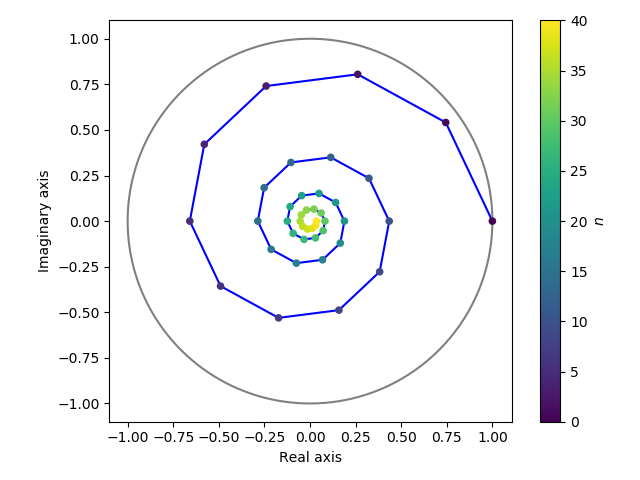
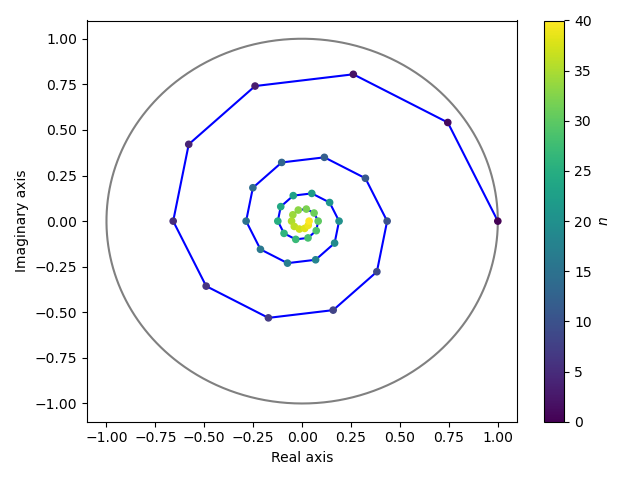
fixed bug in example code

diff --git a/code/006_spiral/spiral.py b/code/006_spiral/spiral.py
@@ -12,9 +12,9 @@ z=0.92*n.exp(1j*theta)
 
 plt.plot(n.real(z**m),n.imag(z**m),"-",label="$0.9^n \mathrm{exp}\left(i \\frac{2\pi}{20}\\right)^n$",color="blue")
 plt.scatter(n.real(z**m),n.imag(z**m),c=m,zorder=3,cmap="viridis",s=20)
+#plt.show()
 
-
-z=1.1*n.exp(1j*theta)
+#z=1.1*n.exp(1j*theta)
 #plt.plot(n.real(z**m),n.imag(z**m),"-",label="$1.1^n \mathrm{exp}\left(i \\frac{2\pi}{20}\\right)^n$",color="red")
 #plt.scatter(n.real(z**m),n.imag(z**m),c=m,zorder=3,cmap="viridis",s=20)
 cb=plt.colorbar()
@@ -23,7 +23,7 @@ plt.plot(n.cos(n.linspace(0,2*n.pi,num=1000)),n.sin(n.linspace(0,2*n.pi,num=1000
 #plt.legend()
 plt.xlabel("Real axis")
 plt.ylabel("Imaginary axis")
-plt.axes().set_aspect('equal')
+#plt.axes().set_aspect('equal')
 plt.tight_layout()
 plt.savefig("spiral.png")
 plt.show()
